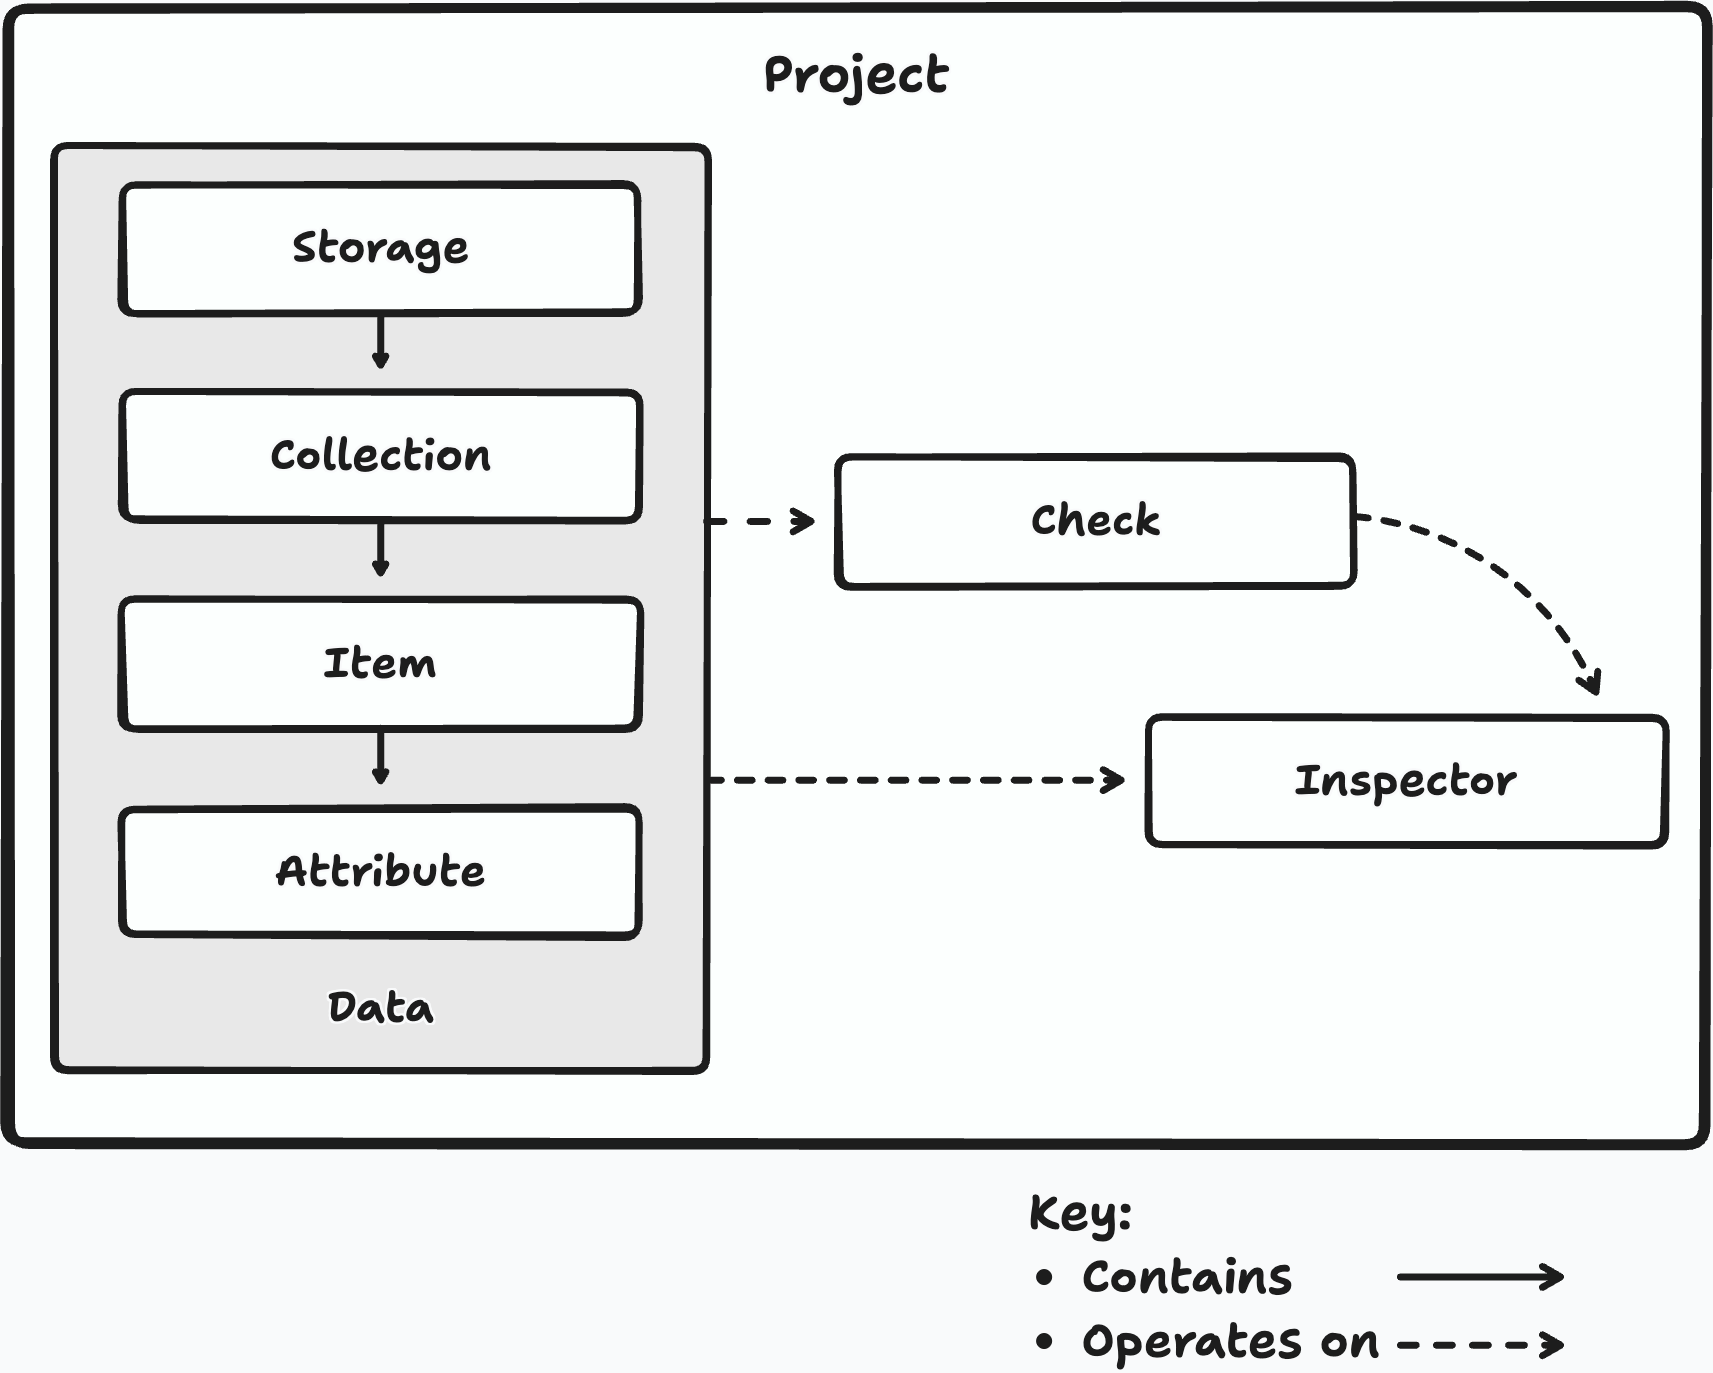
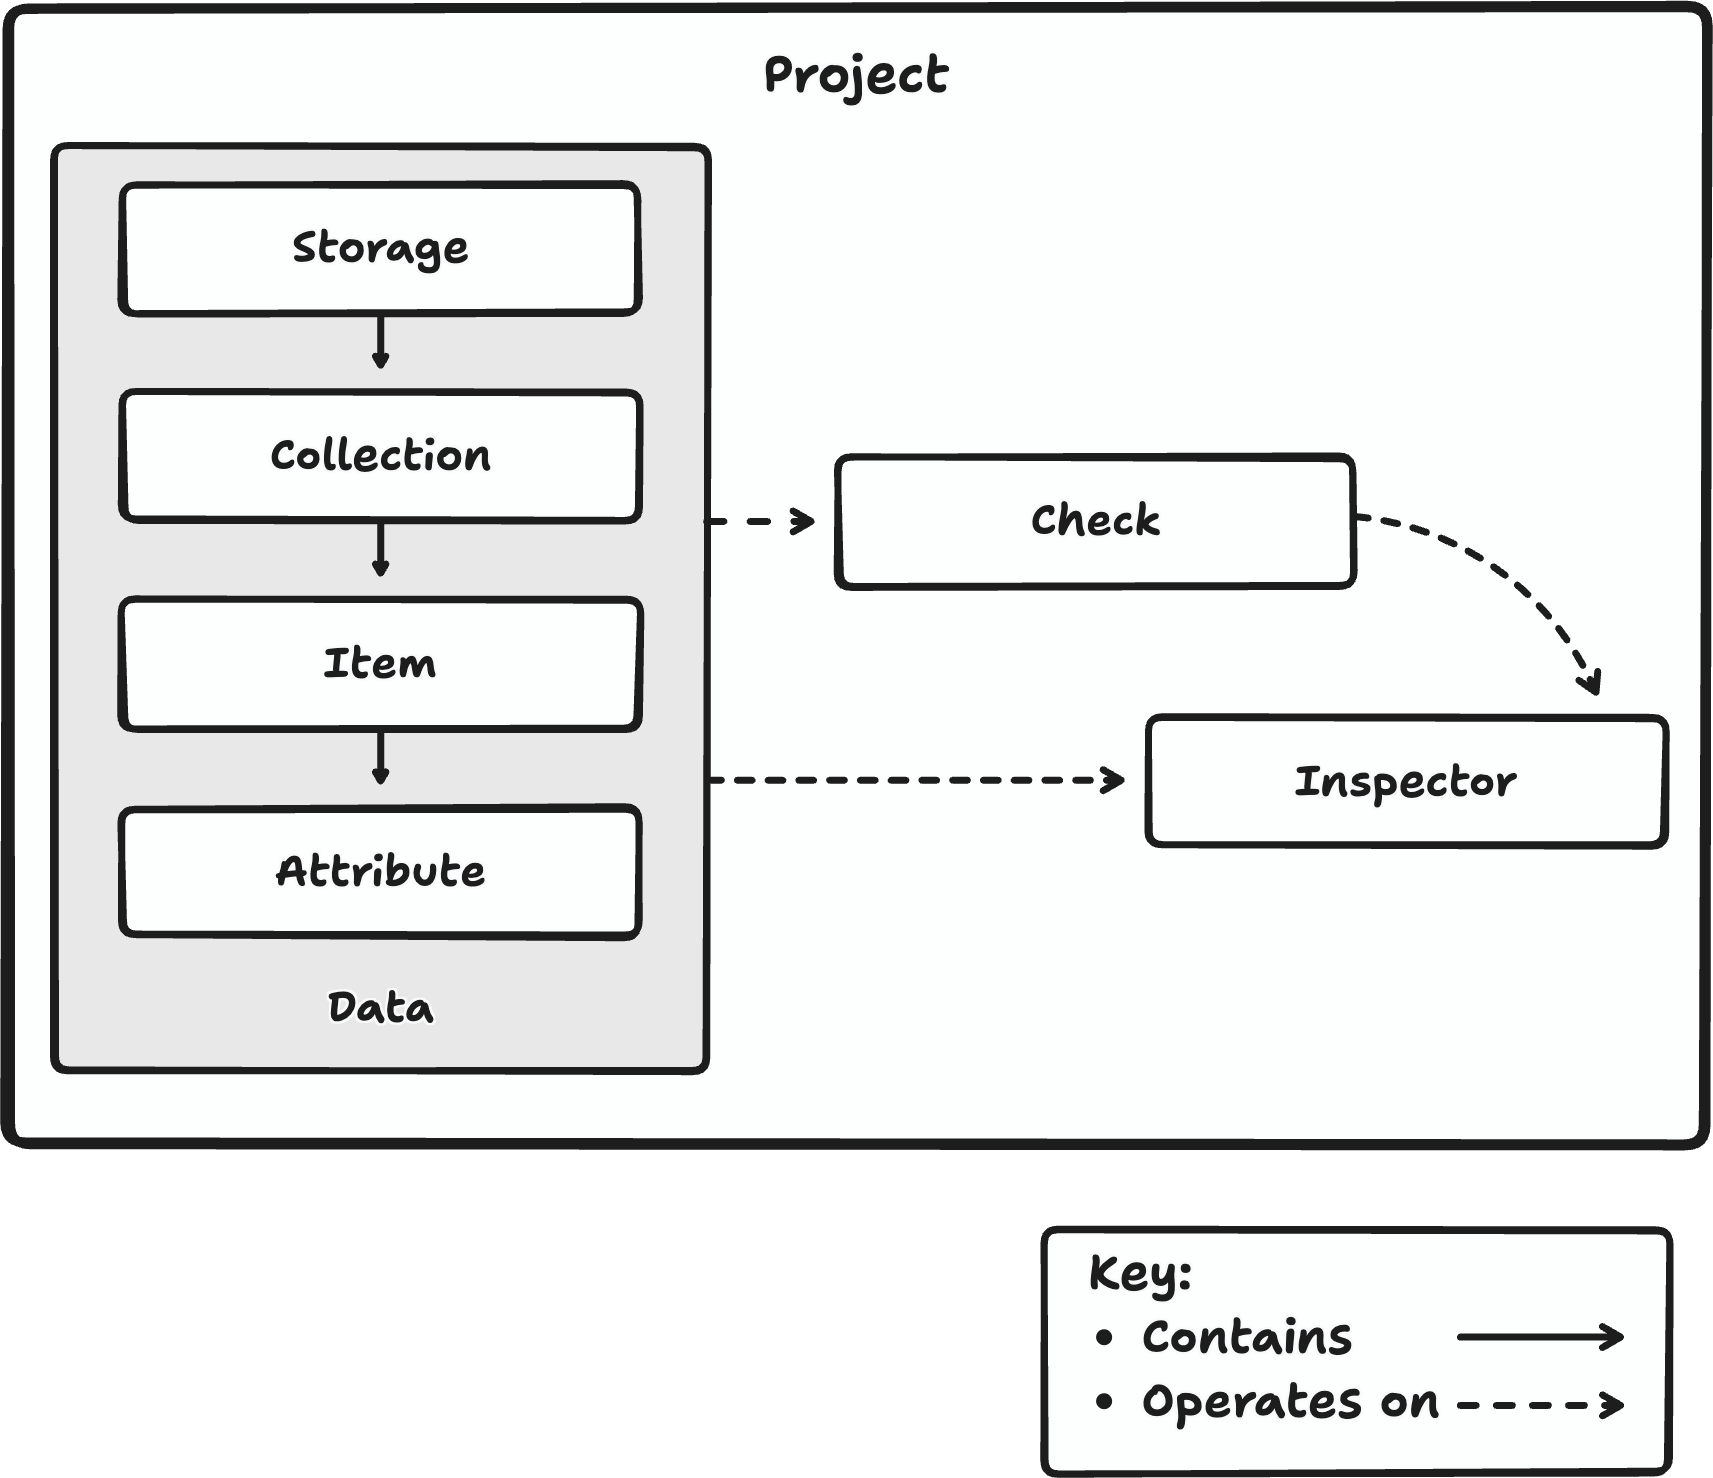
Refresh domain model page structure and diagram sizing
Rework the deep-dive narrative around the core concepts and replace the diagram asset, then constrain the diagram width so it no longer spans the full content column.

diff --git a/docs/content/deep-dives/domain-model/_index.md b/docs/content/deep-dives/domain-model/_index.md
@@ -6,21 +6,21 @@ bookCollapseSection = true
 
 # Domain model
 
-Katalyst reasons in a small vocabulary that is general enough to describe a
-Postgres table, a directory of markdown files, a MongoDB collection, and a
-hosted API response the same way. That shared vocabulary is what lets checks,
-inspectors, selectors, and future backends fit the same model instead of
-becoming one-off adapters.
+This page introduces core concepts in the Katalyst domain model and how they relate to each other.
 
-This page introduces the concepts and how they fit. Each term's canonical
-definition lives in the [glossary]({{< relref "../../reference/glossary.md" >}}).
+<img
+  src="../../images/domain-model-core-concepts.png"
+  alt="Domain model diagram showing project containing storage, collection, item, and attribute, with checks and inspectors operating on the data model."
+  style="display:block; margin:1rem auto; width:auto; max-width:600px; height:auto;"
+/>
 
-## The concepts
-
-- A **project** is the whole workspace katalyst operates over: a configured
+A **project** is the whole workspace Katalyst operates over: a configured
   root that binds one or more storage backends into named collections. Its
-  configuration is the **config**; in katalyst today, that config is the
+  configuration is the **config**; in Katalyst today, that config is the
   `.katalyst/` directory. An empty selector addresses the whole project.
+
+**Data**
+
 - **Storage** is a backend that holds data: a filesystem, a SQLite database, a
   Postgres instance, an S3 bucket, or another store. Katalyst's implementation
   is the [storage layer]({{< relref "storage.md" >}}), where a storage instance
@@ -35,30 +35,17 @@ definition lives in the [glossary]({{< relref "../../reference/glossary.md" >}})
   frontmatter key, a response field, its filename, its path, or another
   backend-derived property. A key in a structured object specifically is a
   **field**.
-- An **operation** is something a backend lets you do with data: read, list,
+
+**Operations**
+
+An **operation** is something a backend lets you do with data: read, list,
   aggregate, write, and eventually query. Which operations a backend supports,
   and what structural commitments those operations require, is the subject of
   [progressive operations]({{< relref "../progressive-operations.md" >}}).
+
 - A **check** asserts a condition on an item, an attribute, or a whole
   collection and reports a violation when the condition fails. See
   [Checks]({{< relref "checks.md" >}}).
 - An **inspector** is the descriptive dual of a check: it measures a
   distribution and returns evidence, never a verdict. See
   [Inspectors]({{< relref "inspectors.md" >}}).
-
-## How the concepts fit
-
-The hierarchy is intentionally small:
-
-![Domain model diagram showing project containing storage, collection, item, and attribute, with checks and inspectors operating on the data model.](../../images/domain-model-core-concepts.png)
-
-Storage locates data, collections group it, items are the units commands act
-on, and attributes are the named things checks and inspectors can read.
-Operations describe what the backend can do with those units. Checks and
-inspectors sit on top: checks enforce a rule; inspectors measure the same
-surface without enforcing anything.
-
-That separation is why katalyst can start with markdown files but leave room
-for richer stores. The check engine does not need to know whether an item came
-from a file or a row if the storage layer can present the item, its attributes,
-and the operations available on them.